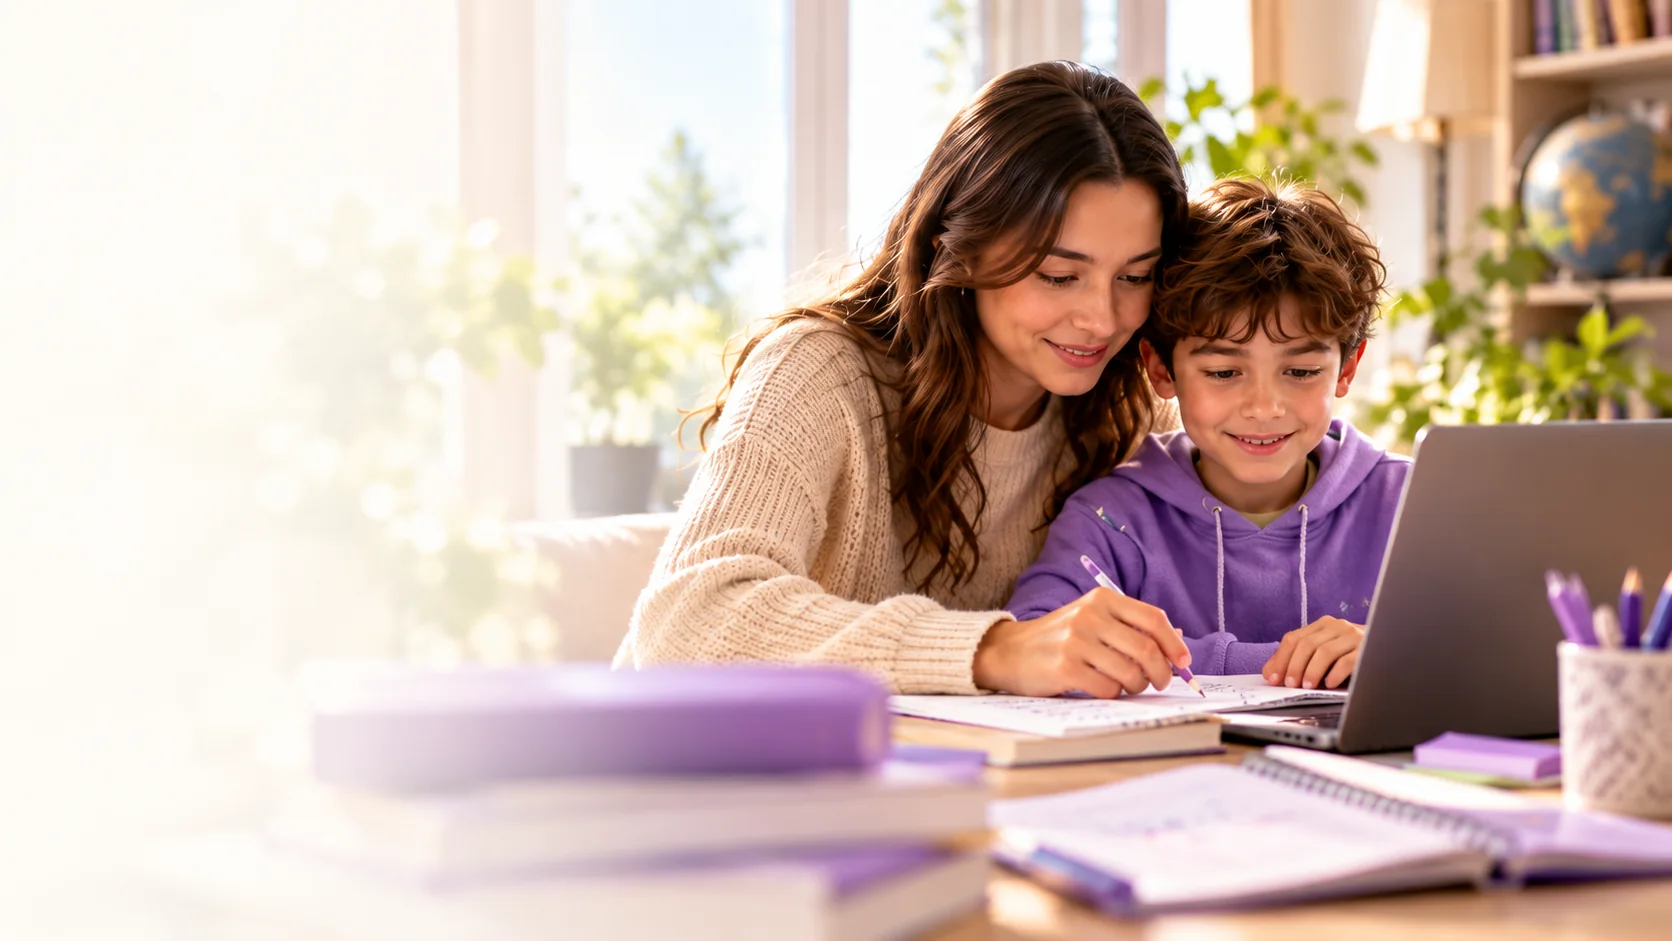
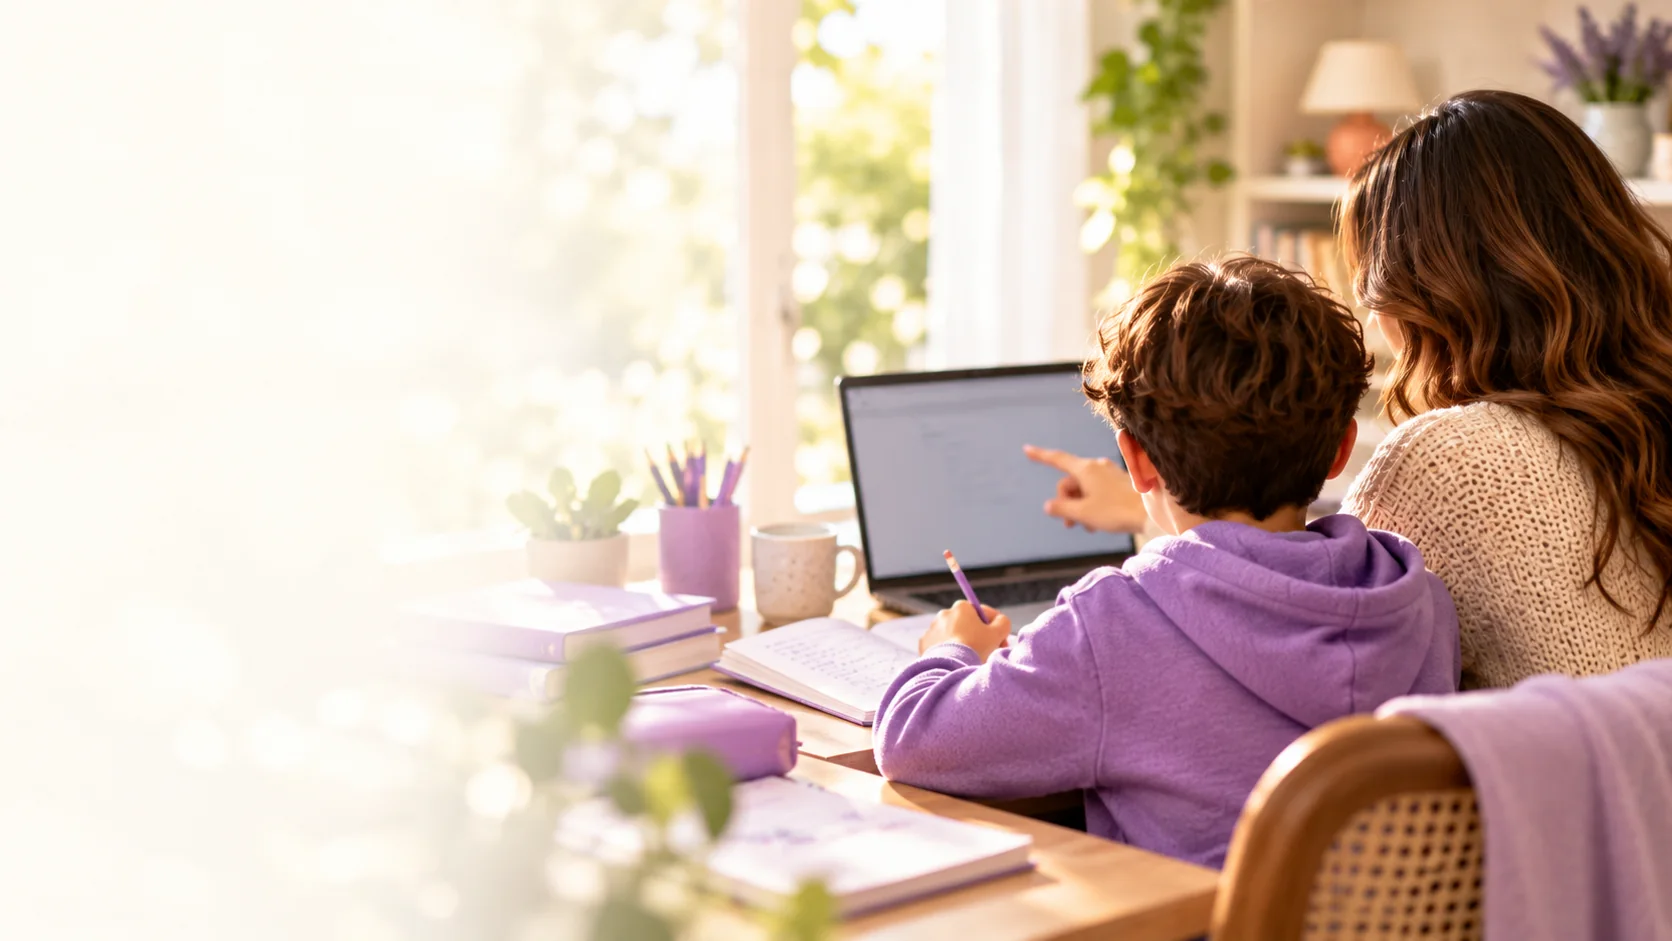
feat(landing): face-free Progress slide; page-wide face budget now green
Hero slide 5 uses the over-the-shoulder parent/child photograph (no faces),
treatment hands-only. Face-visible photos across the whole landing page: hero
Learn + For Parents = 2. Native 1672x941, not upscaled (interim source).

diff --git a/src/features/landing/content.ts b/src/features/landing/content.ts
@@ -220,10 +220,10 @@ export const hero = {
       id: "progress",
       label: "Progress",
       phrase: "See where learning is going.",
-      treatment: "face-visible",
+      treatment: "hands-only",
       src: "/landing/campaign/hero-05-progress.webp",
-      alt: "A parent and child look at a laptop together and smile at the desk",
-      positionMobile: "60% 50%",
+      alt: "A parent and child sit side by side, seen from behind, looking at a laptop together at a bright desk",
+      positionMobile: "74% 50%",
       positionDesktop: "68% 50%",
     },
     {
